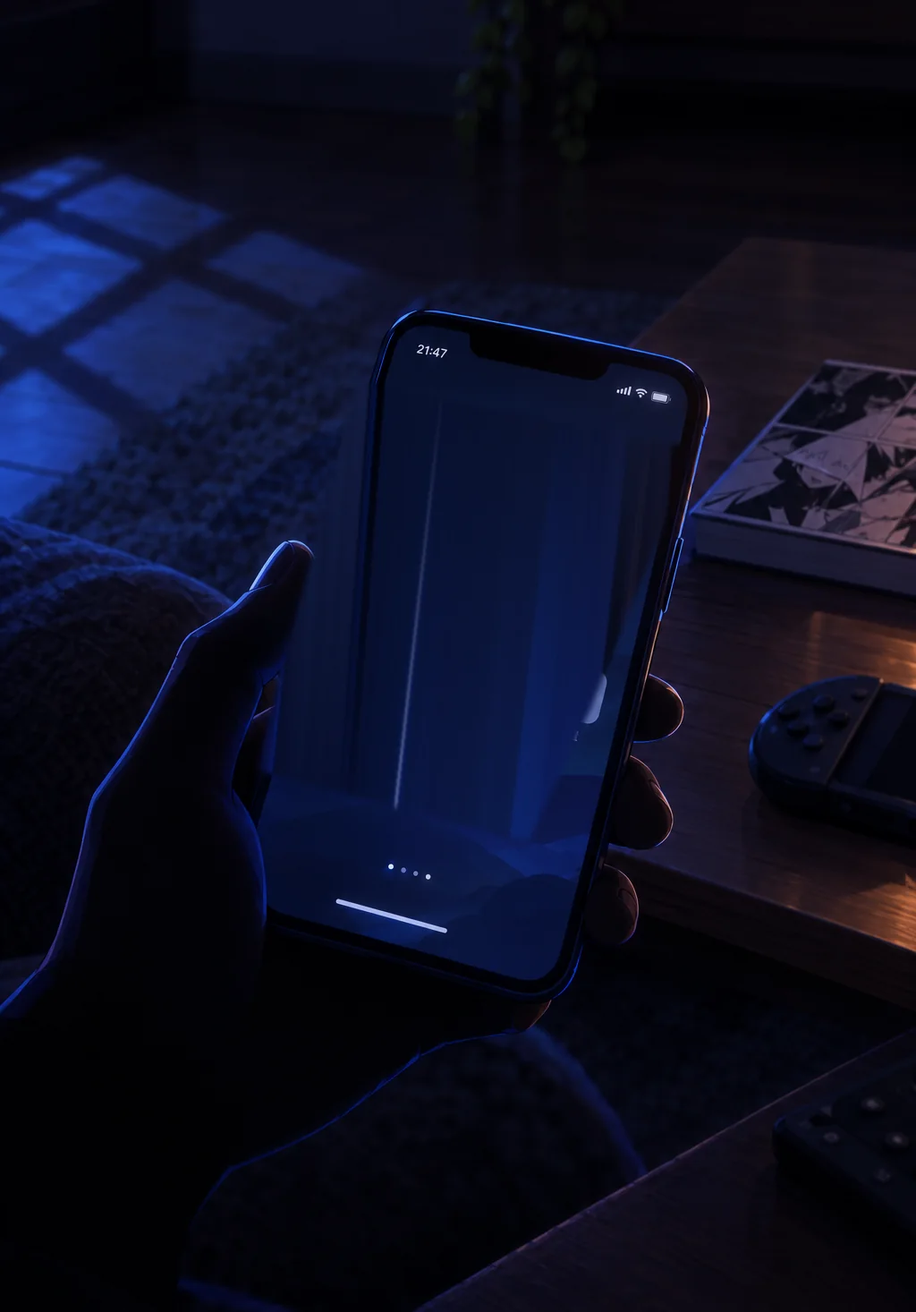
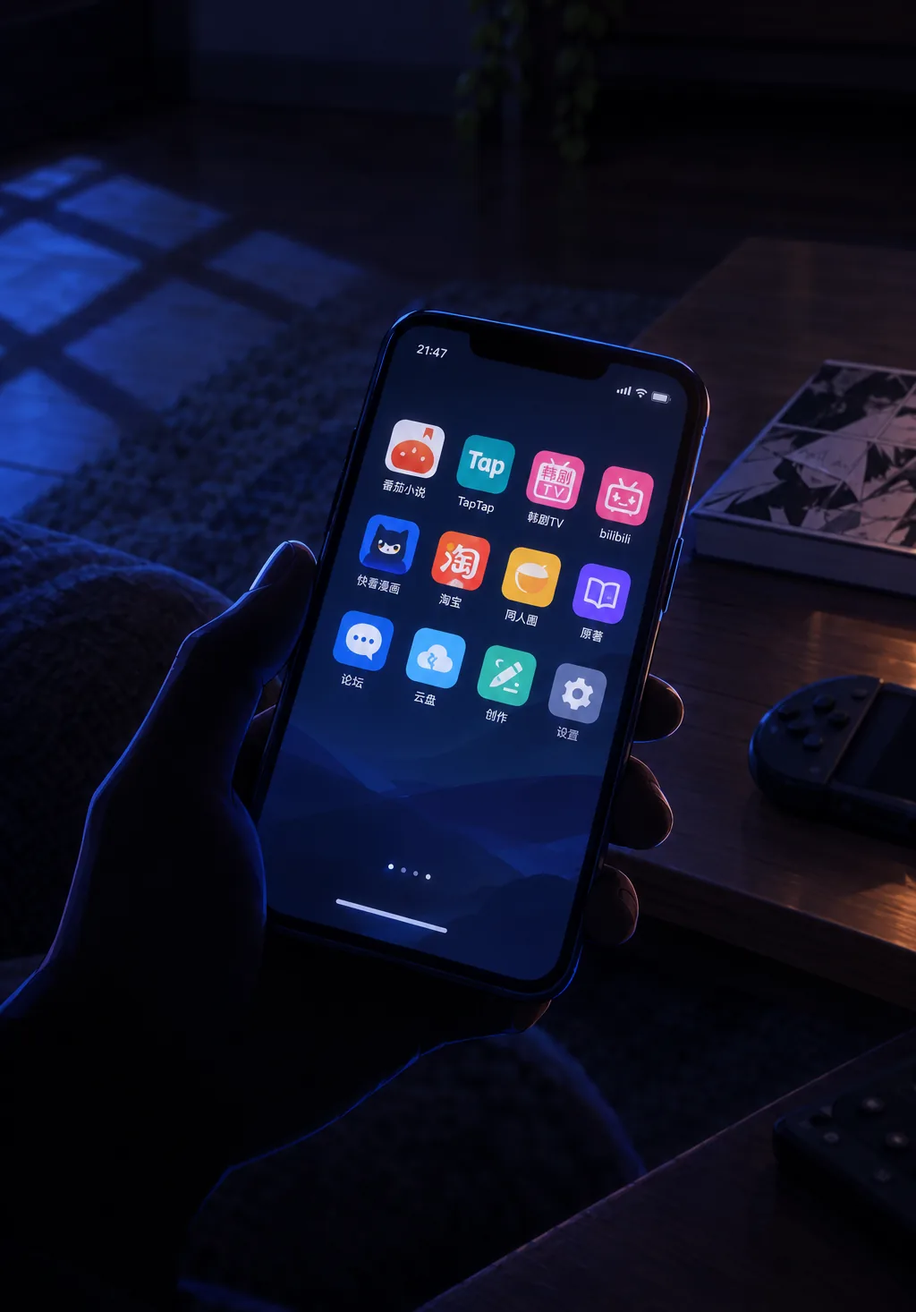
窥探之眼：选作品改用整张引导图（全暗、点哪列亮哪列）；手机直接用原图；特写满屏、预加载
- 第一次进来不默认任何作品（旧存档迁移一次，清掉 form），片头后直接是选作品画面；选过以后再来不用选
- 选作品：guide.webp 整张铺开、压暗，五列面板轮流微微闪；点中那列（面板+图标+茶几上的东西）亮起，电视关着的屏先用像素字问「这段剧情是一部……」，点中后亮起对应画面，再淡回客厅
- 手机特写换成用户给的原图，图标不再前端叠；每个图标一块热区，五个官方平台只有当前形态那个可点、其余压暗；创作→身份，云盘暂未接
- 帷幕后 / 周边柜 / 手机特写按满屏铺；进来就预加载这几张，换图更快
- 删掉旧的 gp_* 面板切图；像素字子集补上引导用的字

Claude-Session: https://claude.ai/code/session_01TSyEwZEwvoN7y1zL8fqiLP

Changed region(s): [[0.2812, 0.307, 0.75, 0.6139], [0.5625, 0.5832, 0.5938, 0.6446]]

diff --git a/apps/eye/eye.js b/apps/eye/eye.js
@@ -1,18 +1,18 @@
 // 小手机 · 窥探之眼：从更高一层往下看——这段剧情在「那个世界」里是一部漫画 / 动画 / 电视剧 / 小说 / 游戏
 // 画面全是生成的图（assets/eye/*.webp），一笔不画：
-//   room / room_author  客厅（面具挂在墙上 / 戴在他脸上）   phone  他手里的手机特写（屏幕上的图标抹掉了，前端叠）
-//   backstage  帷幕后面   cabinet  周边柜特写   fg  最前面一层虚化的沙发   tv_*  五种形态在电视上放的画面   gp_* / gi_*  引导用的五块面板和小图标
-// 第一次进来先选「这段剧情是一部什么」：五块面板浮在茶几上方，点一块，电视就亮起对应的画面
+//   room / room_author  客厅（面具挂在墙上 / 戴在他脸上）   phone  他手里的手机特写（图标就是图里的，点哪个开哪个）
+//   backstage  帷幕后面   cabinet  周边柜特写   fg  最前面一层虚化的沙发   tv_*  五种形态在电视上放的画面   guide  选作品时的客厅（茶几上方五块面板）   gi_*  小图标
+// 第一次进来先选「这段剧情是一部什么」：整间屋子是暗的，五块面板浮在茶几上方，点哪块哪块亮、电视跟着亮；选过以后再进来就不用选了
 // 手机上的 App：官方平台（随形态换，五选一）/ 论坛 / 周边店 / 同人圈 / 另一条线（同人作品是原著线，原创作品是 IF 线）
 // 内容都是样例；生成之后接
 import { S, $, $$, page, reg, toast, save, esc, openApp } from '../../core.js';
 
-const CSS = new URL('./eye.css?v=4', import.meta.url).href;
+const CSS = new URL('./eye.css?v=5', import.meta.url).href;
 const css = () => new Promise(r => { const old = document.querySelector('link[data-eye]'); if (old) return old.sheet ? r() : old.addEventListener('load', () => r(), { once: true }); const l = document.createElement('link'); l.rel = 'stylesheet'; l.dataset.eye = 1; l.href = CSS; l.onload = l.onerror = () => r(); document.head.append(l); setTimeout(r, 1500); });
 const IMG = f => new URL(`../../assets/eye/${f}.webp`, import.meta.url).href;
 const PXF = new URL('../../assets/fonts/px-eye.woff', import.meta.url).href;
 let pxReady; const pxFont = () => pxReady ||= (async () => { try { const f = new FontFace('xp-px', `url("${PXF}") format("woff")`); await f.load(); document.fonts.add(f); } catch {} })();
-const ST = () => { const e = (S.eye ||= { form: '', role: 'viewer', wall: false, src: 'orig', intro: true }); if (typeof e.intro != 'boolean') e.intro = true; return e; };
+const ST = () => { const e = (S.eye ||= { form: '', role: 'viewer', wall: false, src: 'orig', intro: true }); if (typeof e.intro != 'boolean') e.intro = true; if (e.v != 2) { e.v = 2; e.form = ''; save(); } return e; };
 
 /* ---------- 形态 ---------- */
 const FORMS = [['manga', '漫画'], ['game', '游戏'], ['novel', '小说'], ['drama', '电视剧'], ['anime', '动画']];
@@ -24,18 +24,21 @@ const FM = {
   novel: { ep: '章', unit: '第三卷 · 第 41 章', where: '文库 · 连载中', plat: '文库', bs: '作者的话', who: '作者', tv: 'novel' },
   game: { ep: '章', unit: '第 4 章 · 雨夜', where: '游戏库 · 已发售', plat: '游戏库', bs: '开发者日志', who: '制作组', tv: 'game' },
 };
-// 引导面板和小图标在底图上的位置（百分比，从第二张图量的）
-// （面板原图位置，留着备用）
-const GP = { manga: [36.3, 40.6, 49.6, 47.8], game: [49.6, 41.6, 63.3, 49.3], novel: [64.1, 41.9, 75.8, 49.0], drama: [75.8, 42.0, 87.5, 49.4], anime: [87.1, 42.2, 98.8, 49.7] };
-const GI = { manga: [46.2, 51.0], game: [56.9, 52.6], novel: [69.6, 51.9], drama: [80.8, 52.2], anime: [91.4, 51.9] };
+// 选作品那张图上，每一列（面板 + 小图标 + 茶几上对应的东西）的范围，百分比：左 上 右 下
+const GCOL = { manga: [36.6, 40, 54.2, 64], game: [49.8, 40, 68.4, 68.4], novel: [63, 40, 75.2, 64], drama: [74.7, 40, 86.4, 69.2], anime: [86.4, 40, 99.4, 63] };
+const GHIT = { manga: [36, 40, 50, 68], game: [50, 40, 64, 68], novel: [64, 40, 75.5, 68], drama: [75.5, 40, 86.5, 70], anime: [86.5, 40, 99.5, 68] };
+const pct = ([l, t, r, b]) => `left:${l}%;top:${t}%;width:${r - l}%;height:${b - t}%`;
 
 /* ---------- 热区（相对底图的百分比：左 上 右 下） ---------- */
 const ZONES = { tv: [33.5, 14.5, 78.5, 43.5], phone: [38, 56, 50, 67], mask: [16, 9, 27.5, 21], cab: [13.5, 20, 28.5, 34.5], curtain: [82, 8, 99.5, 52], cctv: [72, 2, 87, 9.5], table: [52, 51, 97, 70] };
 const CAMS = { tv: 1.5, phone: 1.9, mask: 2.4, cab: 2.2, curtain: 1.9, cctv: 2.6, table: 1.7 };
 // 点了以后整张换成另一张图的：手机特写 / 帷幕后面 / 周边柜
 const SWAP = { phone: 'phone', curtain: 'backstage', cab: 'cabinet' };
-// 手机屏幕上放图标的那块（手机特写图里的四个角，百分比；左上 右上 右下 左下）
-const PHQ = [[40.5, 31.6], [68.0, 36.2], [54.6, 62.0], [29.6, 57.9]];
+// 手机特写图里每个图标的中心（百分比）。五个官方平台只有当前形态那个能点，其余压暗
+const PH = [['plat', 45.2, 34.3, 'novel'], ['plat', 53.0, 35.4, 'game'], ['plat', 60.5, 36.6, 'drama'], ['plat', 68.3, 37.7, 'anime'],
+  ['plat', 42.5, 41.5, 'manga'], ['shop', 50.3, 42.8], ['fan', 57.9, 44.0], ['line', 65.5, 45.2],
+  ['forum', 39.7, 48.8], ['cloud', 47.5, 50.0], ['mask', 55.4, 51.4], ['set', 63.0, 52.7]];
+const phz = () => PH.map(([k, x, y, f]) => `<b class="phz ${f && f != ST().form ? 'dim' : ''}" data-a="hopen" data-x="${k}" ${f ? `data-f="${f}"` : ''} style="left:${x}%;top:${y}%"></b>`).join('');
 
 /* ---------- 电视里的画面 ---------- */
 function tvScreen() {
@@ -45,29 +48,6 @@ function tvScreen() {
   return `<img class="tv-img" src="${IMG('tv_' + f.tv)}" alt=""><i class="tv-scan"></i>
 <div class="tv-dm">${['前方高能', '泪目了', '这一集神作', '你倒是回头啊', '打卡', '啊啊啊啊'].map((t, i) => `<span style="--i:${i}">${t}</span>`).join('')}</div>
 <div class="tv-sub"><b>${esc(FN[st.form])} · ${esc(f.unit)}</b><small>「……雨，停了啊。」</small></div>`;
-}
-
-/* ---------- 手机上的 App ---------- */
-const APPS = () => { const st = ST(), f = FM[st.form] || FM.anime; return [
-  ['plat', f.plat, 'plat ' + st.form], ['forum', '论坛', 'forum'], ['shop', '周边店', 'shop'], ['fan', '同人圈', 'fan'], ['line', st.src == 'fan' ? '原著线' : 'IF 线', 'line'], ['set', '设置', 'set']]; };
-const GLY = {
-  plat: '<svg viewBox="0 0 24 24"><path d="M5 5h14v12H9l-4 3z" fill="none" stroke="#fff" stroke-width="1.8" stroke-linejoin="round"/><path d="M8 9h8M8 12h5" stroke="#fff" stroke-width="1.8" stroke-linecap="round"/></svg>',
-  forum: '<svg viewBox="0 0 24 24"><path d="M4 6h16v10H10l-4 3v-3H4z" fill="#fff"/><circle cx="9" cy="11" r="1.2" fill="#3a7bd5"/><circle cx="12" cy="11" r="1.2" fill="#3a7bd5"/><circle cx="15" cy="11" r="1.2" fill="#3a7bd5"/></svg>',
-  shop: '<svg viewBox="0 0 24 24"><path d="M5 8h14l-1 12H6z" fill="#fff"/><path d="M9 8V6a3 3 0 0 1 6 0v2" fill="none" stroke="#fff" stroke-width="1.8"/><path d="M9 12v1M15 12v1" stroke="#e8542a" stroke-width="2" stroke-linecap="round"/></svg>',
-  fan: '<svg viewBox="0 0 24 24"><path d="M12 20s-7-4.4-7-9.5A3.8 3.8 0 0 1 12 8a3.8 3.8 0 0 1 7 2.5C19 15.6 12 20 12 20z" fill="#fff"/><path d="M15 4l1 2 2 .3-1.5 1.4.4 2-1.9-1-1.9 1 .4-2L12 6.3l2-.3z" fill="#fff"/></svg>',
-  line: '<svg viewBox="0 0 24 24"><path d="M4 17c5 0 5-10 10-10h6M4 7c5 0 5 10 10 10h6" fill="none" stroke="#fff" stroke-width="1.9" stroke-linecap="round"/><path d="M18 5l2 2-2 2M18 15l2 2-2 2" fill="none" stroke="#fff" stroke-width="1.9" stroke-linecap="round" stroke-linejoin="round"/></svg>',
-  set: '<svg viewBox="0 0 24 24"><circle cx="12" cy="12" r="3" fill="none" stroke="#fff" stroke-width="2"/><path d="M12 3v3M12 18v3M3 12h3M18 12h3M5.6 5.6l2.1 2.1M16.3 16.3l2.1 2.1M5.6 18.4l2.1-2.1M16.3 7.7l2.1-2.1" stroke="#fff" stroke-width="2" stroke-linecap="round"/></svg>',
-};
-function phoneGrid() {
-  return `<div class="ph-grid">${APPS().map(([id, n, cls]) => `<b data-a="hopen" data-x="${id}"><i class="pi ${cls}">${GLY[id]}</i><span>${esc(n)}</span></b>`).join('')}</div>`;
-}
-// 把手机屏幕那块四边形算成 matrix3d（单位正方形 → 四个角）
-function quadMatrix(w, h, pts) { // 把 (0,0)-(w,h) 的矩形映射到四个角 pts（像素）
-  const [[x0, y0], [x1, y1], [x2, y2], [x3, y3]] = pts;
-  const dx1 = x1 - x2, dx2 = x3 - x2, dx3 = x0 - x1 + x2 - x3, dy1 = y1 - y2, dy2 = y3 - y2, dy3 = y0 - y1 + y2 - y3;
-  const det = dx1 * dy2 - dx2 * dy1, g = (dx3 * dy2 - dx2 * dy3) / det, hh = (dx1 * dy3 - dx3 * dy1) / det;
-  const a = x1 - x0 + g * x1, b = x3 - x0 + hh * x3, d = y1 - y0 + g * y1, e = y3 - y0 + hh * y3;
-  return `matrix3d(${a / w},${d / w},0,${g / w},${b / h},${e / h},0,${hh / h},0,0,1,0,${x0},${y0},0,1)`;
 }
 
 /* ---------- 全息屏：每个入口一页，点进去还有下一层 ---------- */
@@ -114,14 +94,13 @@ function scramble(el) {
 
 /* ---------- 镜头 / 换图 ---------- */
 let focused = '', stack = [], played = false;
-function fitRoom(el) { const st = $('.eye-stage', el), fit = $('.fit', el); if (!st || !fit) return; const w = st.clientWidth, h = st.clientHeight; const fw = w + 'px'; fit.style.setProperty('--fw', fw); st.style.setProperty('--fw', fw); placePhone(el); }
-function placePhone(el) { const sw = $('.swaps', el), g = $('.ph-grid', el); if (!sw || !g) return; const fw = sw.clientWidth, fh = fw * 1466 / 1024;
-  g.style.transform = quadMatrix(g.offsetWidth, g.offsetHeight, PHQ.map(([x, y]) => [x / 100 * fw, y / 100 * fh])); }
+// 客厅按宽铺（整张都看得到，上下用模糊的同一张图垫着）；换上来的特写图按满屏铺
+function fitRoom(el) { const st = $('.eye-stage', el); if (!st) return; const w = st.clientWidth, h = st.clientHeight; st.style.setProperty('--fw', w + 'px'); st.style.setProperty('--cw', Math.max(w, h * 1024 / 1466) + 'px'); }
 function cam(el, k) {
   const st = $('.eye-stage', el), room = $('.eye-room', el); if (!st) return;
   const zk = k ? k.split(':')[0] : '', z = ZONES[zk];
   st.classList.toggle('zoom', !!k); st.dataset.focus = zk;
-  if (z) { const fit = $('.fit', el), s = CAMS[zk] || 1.8, sw = st.clientWidth, sh = st.clientHeight, fw = parseFloat(fit.style.getPropertyValue('--fw')) || sw, fh = fw * 1466 / 1024;
+  if (z) { const s = CAMS[zk] || 1.8, sw = st.clientWidth, sh = st.clientHeight, fw = sw, fh = fw * 1466 / 1024;
     const cx = (sw - fw) / 2 + (z[0] + z[2]) / 200 * fw, cy = (sh - fh) / 2 + (z[1] + z[3]) / 200 * fh, C = [sw / 2, sh / 2], target = [sw / 2, sh * (zk == 'tv' ? .26 : .40)];
     let tx = target[0] - C[0] - (cx - C[0]) * s, ty = target[1] - C[1] - (cy - C[1]) * s; const fx0 = (sw - fw) / 2, fy0 = (sh - fh) / 2;
     const cl = (v, lo, hi) => lo > hi ? (lo + hi) / 2 : Math.min(Math.max(v, lo), hi); // 放大后图还没舞台高时就居中
@@ -173,10 +152,21 @@ function intro(el) {
 
 /* ---------- 引导：第一次进来先选作品 ---------- */
 function guide(el, on) { const g = $('.eye-guide', el); if (!g) return; g.classList.toggle('in', on); $('.eye-stage', el).classList.toggle('guiding', on); }
-function pickForm(el, k, pg) {
-  const st = ST(); st.form = k; save();
-  const g = $('.eye-guide', el); if (g) { $$('.gp', g).forEach(p => p.classList.toggle('pick', p.dataset.x == k)); $$('.gp', g).forEach(p => p.dataset.x != k && p.classList.add('off')); }
-  setTimeout(() => { guide(el, false); $('.tv-scr', el).innerHTML = tvScreen(); $('.tv-scr', el).classList.add('lit'); $('.eye-brand small', el).textContent = `${FN[k]} · ${FM[k].unit}`; placePhone(el); $('.ph-grid', el).innerHTML = phoneGrid().replace(/^<div class="ph-grid">|<\/div>$/g, ''); }, 650);
+function guideHtml() {
+  const g = IMG('guide');
+  return `<div class="eye-guide ${ST().form ? '' : 'in'}"><img class="bleed" src="${g}" alt=""><div class="gfit"><img class="gbase" src="${g}" draggable="false" alt="">
+<div class="gtv"><p class="gq">在那个世界里，<br>这段剧情是一部……</p></div>
+${FORMS.map(([k], i) => { const [l, t, r, b] = GCOL[k]; return `<div class="gcol" data-x="${k}" style="${pct(GCOL[k])};--i:${i}"><img src="${g}" style="width:${10000 / (r - l)}%;left:${-l / (r - l) * 100}%;top:${-t / (b - t) * 100}%" alt=""></div>`; }).join('')}
+${FORMS.map(([k]) => `<b class="gh" data-a="gpick" data-x="${k}" style="${pct(GHIT[k])}"></b>`).join('')}</div></div>`;
+}
+function pickForm(el, k) {
+  const g = $('.eye-guide', el); if (!g || g.classList.contains('picked')) return;
+  const st = ST(); st.form = k; save(); g.classList.add('picked');
+  $$('.gcol', g).forEach(c => c.classList.toggle('on', c.dataset.x == k));
+  const tv = $('.gtv', g); tv.insertAdjacentHTML('beforeend', `<img class="tv-img" src="${IMG('tv_' + FM[k].tv)}" alt=""><i class="tv-scan"></i>`); tv.classList.add('lit');
+  $('.tv-scr', el).innerHTML = tvScreen(); $('.tv-scr', el).classList.add('lit'); $('.eye-brand small', el).textContent = `${FN[k]} · ${FM[k].unit}`;
+  $$('.phz[data-f]', el).forEach(z => z.classList.toggle('dim', z.dataset.f != k));
+  setTimeout(() => guide(el, false), 1700);
 }
 
 function mount(el) {
@@ -184,7 +174,7 @@ function mount(el) {
   st.addEventListener('pointermove', e => { const r = st.getBoundingClientRect(); st.style.setProperty('--mx', (e.clientX - r.left) / r.width * 100 + '%'); st.style.setProperty('--my', (e.clientY - r.top) / r.height * 100 + '%'); });
   let y0 = 0; st.addEventListener('pointerdown', e => { const c = e.target.closest('.holo'); y0 = c ? e.clientY : 0; });
   st.addEventListener('pointerup', e => { if (y0 && e.clientY - y0 > 48) back(el); y0 = 0; });
-  st.addEventListener('click', e => { if (st.classList.contains('guiding')) return; if (e.target.closest('.holo,[data-a],.ph-grid')) return; if (focused) back(el); });
+  st.addEventListener('click', e => { if (st.classList.contains('guiding')) return; if (e.target.closest('.holo,[data-a]')) return; if (focused) back(el); });
   if (ST().intro && !played) { played = true; intro(el); } else if (!ST().form) guide(el, true);
 }
 
@@ -195,9 +185,8 @@ const body = () => { const st = ST(), has = !!st.form; return `<div class="eye-s
 <i class="led"></i><i class="moon-ray"></i><i class="curtain-glow"></i>
 ${Object.entries(ZONES).map(([k, z]) => `<b class="hz hz-${k}" data-a="ez" data-x="${k}" style="left:${z[0]}%;top:${z[1]}%;width:${z[2] - z[0]}%;height:${z[3] - z[1]}%"></b>`).join('')}
 </div></div>
-<div class="eye-guide ${has ? '' : 'in'}"><p class="gq"><b>在那个世界里，这段剧情是一部……</b><small>点一块面板</small></p>
-<div class="gps">${FORMS.map(([k, n]) => `<b class="gp" data-a="gpick" data-x="${k}"><img src="${IMG('gp_' + k)}" alt=""><span>${n}</span><img class="gi" src="${IMG('gi_' + k)}" alt=""></b>`).join('')}</div></div>
-<div class="swaps">${Object.entries(SWAP).map(([k, f]) => `<img class="swap" data-k="${f}" src="${IMG(f)}" draggable="false" alt="">`).join('')}<div class="ph-grid" data-a="noop">${has ? phoneGrid().replace(/^<div class="ph-grid">|<\/div>$/g, '') : ''}</div></div>
+${guideHtml()}
+<div class="swaps">${Object.entries(SWAP).map(([k, f]) => `<img class="swap" data-k="${f}" src="${IMG(f)}" draggable="false" alt="">`).join('')}<div class="phzs">${phz()}</div></div>
 <img class="eye-fg" src="${IMG('fg')}" draggable="false" alt="">
 <div class="eye-fx"><i class="dust d1"></i><i class="dust d2"></i><i class="dust d3"></i><i class="dust d4"></i><i class="dust d5"></i><i class="dust d6"></i></div>
 ${st.intro && !played ? introHtml() : ''}
@@ -207,13 +196,13 @@ ${st.intro && !played ? introHtml() : ''}
 reg({
   id: 'eye', name: '窥探之眼',
   icon: `<img src="${IMG('icon')}" alt="">`,
-  open: async () => { await css(); ST().intro && pxFont(); focused = ''; stack = []; played = false; return page({ title: '', cls: 'eye-pg', noBack: 1, body, after: mount, acts: {
+  open: async () => { await css(); pxFont(); ['guide', ...Object.values(SWAP)].forEach(f => { const i = new Image(); i.src = IMG(f); i.decode?.().catch(() => {}); }); focused = ''; stack = []; played = false; return page({ title: '', cls: 'eye-pg', noBack: 1, body, after: mount, acts: {
     ez: (k, t, e, pg) => { if (!ST().form) return; focus(pg.el, k == focused ? '' : k); },
     eback: (x, t, e, pg) => back(pg.el),
-    gpick: (k, t, e, pg) => pickForm(pg.el, k, pg),
+    gpick: (k, t, e, pg) => pickForm(pg.el, k),
     noop: () => {},
     iskip: (x, t, e, pg) => $('.eye-intro', pg.el)?._skip?.(),
-    hopen: (k, t, e, pg) => focus(pg.el, 'phone:' + k),
+    hopen: (k, t, e, pg) => { if (e.target.closest('.dim')) return; if (k == 'cloud') return toast('还没接上，先看样子'); focus(pg.el, 'phone:' + k); },
     eform: (k, t, e, pg) => { ST().form = k; save(); pg.re(); },
     hact: (a, t, e, pg) => {
       const st = ST();

diff --git a/apps/eye/eye.css b/apps/eye/eye.css
@@ -15,8 +15,8 @@
 .eye-room .fit { position: absolute; left: 50%; top: 50%; width: var(--fw, 100%); aspect-ratio: 1024 / 1466; transform: translate(-50%, -50%); }
 .eye-room .fit > img.base { position: absolute; inset: 0; width: 100%; height: 100%; display: block; pointer-events: none; opacity: 0; transition: opacity .7s ease; }
 .eye-room .fit > img.in { opacity: 1; }
-.swaps { position: absolute; left: 50%; top: 50%; width: var(--fw, 100%); aspect-ratio: 1024 / 1466; transform: translate(-50%, -50%); z-index: 4; pointer-events: none; }
-.swaps > img.swap { position: absolute; inset: 0; width: 100%; height: 100%; display: block; opacity: 0; transition: opacity .6s ease .45s; }
+.swaps { position: absolute; left: 50%; top: 50%; width: var(--cw, 100%); aspect-ratio: 1024 / 1466; transform: translate(-50%, -50%); z-index: 4; pointer-events: none; }
+.swaps > img.swap { position: absolute; inset: 0; width: 100%; height: 100%; display: block; opacity: 0; transition: opacity .5s ease .3s; }
 .swaps > img.swap.in { opacity: 1; }
 .eye-stage.swapped .swaps { pointer-events: auto; }
 /* 换了整张图以后，热区和电视都收起来 */
@@ -76,32 +76,37 @@
 .eye-stage[data-focus="curtain"] .holo, .eye-stage[data-focus="cab"] .holo, .eye-stage[data-focus="mask"] .holo { top: 70%; }
 .eye-stage[data-focus="tv"] .holo { top: 62%; }
 
-/* 手机特写上的图标：一块 300×300 的网格，用 matrix3d 贴到屏幕那块四边形上 */
-.ph-grid { position: absolute; left: 0; top: 0; width: 300px; height: 300px; transform-origin: 0 0; display: grid; grid-template-columns: repeat(3, 1fr); grid-auto-rows: 88px; gap: 10px 6px; padding: 8px 10px; box-sizing: border-box; opacity: 0; pointer-events: none; transition: opacity .5s .5s; z-index: 5; }
-.eye-stage.ph-home .ph-grid { opacity: 1; pointer-events: auto; }
-.ph-grid b { display: flex; flex-direction: column; align-items: center; gap: 6px; font-size: 12px; color: #e8f0ff; text-shadow: 0 1px 3px #000; cursor: pointer; position: relative; overflow: hidden; border-radius: 12px; padding: 2px 0; }
-.ph-grid .pi { width: 58px; height: 58px; border-radius: 16px; display: grid; place-items: center; box-shadow: 0 6px 14px -6px #000, inset 0 1px 0 rgba(255, 255, 255, .35); }
-.ph-grid .pi svg { width: 32px; height: 32px; }
-.pi.plat { background: linear-gradient(145deg, #ff8a7a, #e8542a); } .pi.plat.manga { background: linear-gradient(145deg, #6fb4ff, #2f6fd6); } .pi.plat.anime { background: linear-gradient(145deg, #ff8fb8, #e8457a); } .pi.plat.drama { background: linear-gradient(145deg, #ffb46a, #e8702a); } .pi.plat.novel { background: linear-gradient(145deg, #ff9a7a, #d6472f); } .pi.plat.game { background: linear-gradient(145deg, #5fe0c8, #1fa88f); }
-.pi.forum { background: linear-gradient(145deg, #6fb8ff, #3a7bd5); } .pi.shop { background: linear-gradient(145deg, #ff9a5a, #e8542a); } .pi.fan { background: linear-gradient(145deg, #ffc05a, #f08a2a); } .pi.line { background: linear-gradient(145deg, #b48aff, #6a4ad6); } .pi.set { background: linear-gradient(145deg, #9aa4b8, #5a6478); }
-.ph-grid b:active .pi { transform: scale(.92); }
+/* 手机特写：图标就是图里的，上面只叠看不见的热区；不是当前形态的官方平台压暗 */
+.phzs { position: absolute; inset: 0; pointer-events: none; }
+.eye-stage.ph-home .phzs { pointer-events: auto; }
+.phz { position: absolute; width: 7.6%; height: 6.4%; transform: translate(-50%, -42%) rotate(11deg); border-radius: 22%; cursor: pointer; }
+.phz.dim::before { content: ''; position: absolute; left: 9%; top: 0; width: 82%; height: 74%; border-radius: 24%; background: rgba(4, 8, 20, .72); opacity: 0; transition: opacity .5s .5s; }
+.eye-stage.ph-home .phz.dim::before { opacity: 1; }
+.phz:not(.dim):active { background: rgba(160, 210, 255, .18); }
 
-/* 引导：五块面板浮在茶几上方（位置照第二张图） */
-.eye-guide { position: absolute; inset: 0; z-index: 6; opacity: 0; pointer-events: none; transition: opacity .6s; }
+/* 选作品：整间屋子压暗，五块面板一闪一闪地等你点；点中的那一列亮起来，电视跟着亮，然后淡回客厅 */
+.eye-guide { position: absolute; inset: 0; z-index: 6; opacity: 0; pointer-events: none; transition: opacity .9s; background: #06070c; overflow: hidden; }
 .eye-guide.in { opacity: 1; pointer-events: auto; }
-.eye-guide::before { content: ''; position: absolute; inset: 0; background: rgba(2, 4, 10, .45); }
-.gq { position: absolute; left: 0; right: 0; top: 30%; margin: 0; text-align: center; color: #e6f0ff; text-shadow: 0 2px 10px #000; }
-.gq b { display: block; font-size: calc(17px * var(--fz, 1)); letter-spacing: 2px; font-weight: 600; }
-.gq small { display: block; margin-top: 6px; font-size: calc(11.5px * var(--fz, 1)); color: #9fd0ff; letter-spacing: 2px; }
-.gps { position: absolute; left: 10px; right: 10px; top: 42%; display: flex; gap: 6px; align-items: flex-end; }
-.gp { position: relative; flex: 1; cursor: pointer; border-radius: 4px; transform-origin: 50% 100%; animation: gp-float 3.4s ease-in-out infinite; filter: drop-shadow(0 0 10px rgba(120, 200, 255, .55)); transition: transform .5s, opacity .5s, filter .5s; display: flex; flex-direction: column; align-items: center; }
-.gp:nth-child(2) { animation-delay: -.6s } .gp:nth-child(3) { animation-delay: -1.2s } .gp:nth-child(4) { animation-delay: -1.8s } .gp:nth-child(5) { animation-delay: -2.4s }
-@keyframes gp-float { 50% { translate: 0 -4px } }
-.gp > img:first-child { display: block; width: 100%; aspect-ratio: 136 / 104; object-fit: fill; border-radius: 4px; }
-.gp span { display: block; margin-top: 6px; text-align: center; font-size: 11px; color: #cfe8ff; letter-spacing: 2px; text-shadow: 0 1px 4px #000; }
-.gp.pick { transform: scale(1.12); filter: drop-shadow(0 0 18px #9fe0ff) brightness(1.2); z-index: 2; }
-.gp.off { opacity: .15; }
-.gp .gi { width: 44px; height: 44px; mix-blend-mode: screen; margin-top: 2px; }
+.eye-guide > .bleed { position: absolute; left: -10%; top: -10%; width: 120%; height: 120%; object-fit: cover; filter: blur(22px) brightness(.25); pointer-events: none; }
+.gfit { position: absolute; left: 50%; top: 50%; width: var(--fw, 100%); aspect-ratio: 1024 / 1466; transform: translate(-50%, -50%); }
+.gbase { position: absolute; inset: 0; width: 100%; height: 100%; display: block; filter: brightness(.22) saturate(.45); pointer-events: none; transition: filter 1.2s; }
+.eye-guide.picked .gbase { filter: brightness(.3) saturate(.55); }
+.gcol { position: absolute; overflow: hidden; pointer-events: none; opacity: 0; -webkit-mask: linear-gradient(90deg, transparent, #000 14%, #000 86%, transparent), linear-gradient(transparent, #000 6%, #000 90%, transparent); -webkit-mask-composite: source-in; mask: linear-gradient(90deg, transparent, #000 14%, #000 86%, transparent), linear-gradient(transparent, #000 6%, #000 90%, transparent); mask-composite: intersect; animation: gidle 3.6s ease-in-out infinite; animation-delay: calc(var(--i) * .5s); }
+.gcol img { position: absolute; max-width: none; height: auto; display: block; filter: brightness(1.2) saturate(1.15); }
+@keyframes gidle { 0%, 100% { opacity: 0 } 50% { opacity: .35 } }
+.gcol.on { animation: glit .8s steps(1) forwards; }
+@keyframes glit { 0% { opacity: .2 } 15% { opacity: 1 } 25% { opacity: .35 } 40%, 100% { opacity: 1 } }
+.eye-guide.picked .gcol:not(.on) { animation: none; opacity: 0; transition: opacity .4s; }
+.gh { position: absolute; cursor: pointer; }
+.eye-guide.picked .gh { pointer-events: none; }
+/* 电视：关着的屏，上面一行像素字问你 */
+.gtv { position: absolute; left: 33.6%; top: 14.9%; width: 44.6%; height: 17.6%; overflow: hidden; background: #04060c; display: grid; place-items: center; box-shadow: inset 0 0 20px rgba(0, 0, 0, .9); }
+.gtv::after { content: ''; position: absolute; inset: 0; background: repeating-linear-gradient(0deg, rgba(0, 0, 0, .25) 0 1px, transparent 1px 3px); pointer-events: none; }
+.gq { margin: 0; font-family: "xp-px", sans-serif; font-size: 12px; line-height: 20px; letter-spacing: 1px; text-align: center; color: #bfe2ff; text-shadow: 0 0 6px rgba(120, 200, 255, .8); -webkit-font-smoothing: none; animation: gq 2.4s steps(2) infinite; transition: opacity .3s; }
+@keyframes gq { 50% { opacity: .75 } }
+.gtv .tv-img { position: absolute; inset: 0; width: 100%; height: 100%; object-fit: cover; }
+.gtv.lit .gq { opacity: 0; }
+.gtv.lit { animation: tv-on .9s ease-out; }
 .eye-stage.guiding .hz { pointer-events: none; }
 
 /* 最前面那层虚化的沙发：推近时淡出，平时微微跟着镜头反向动 */
